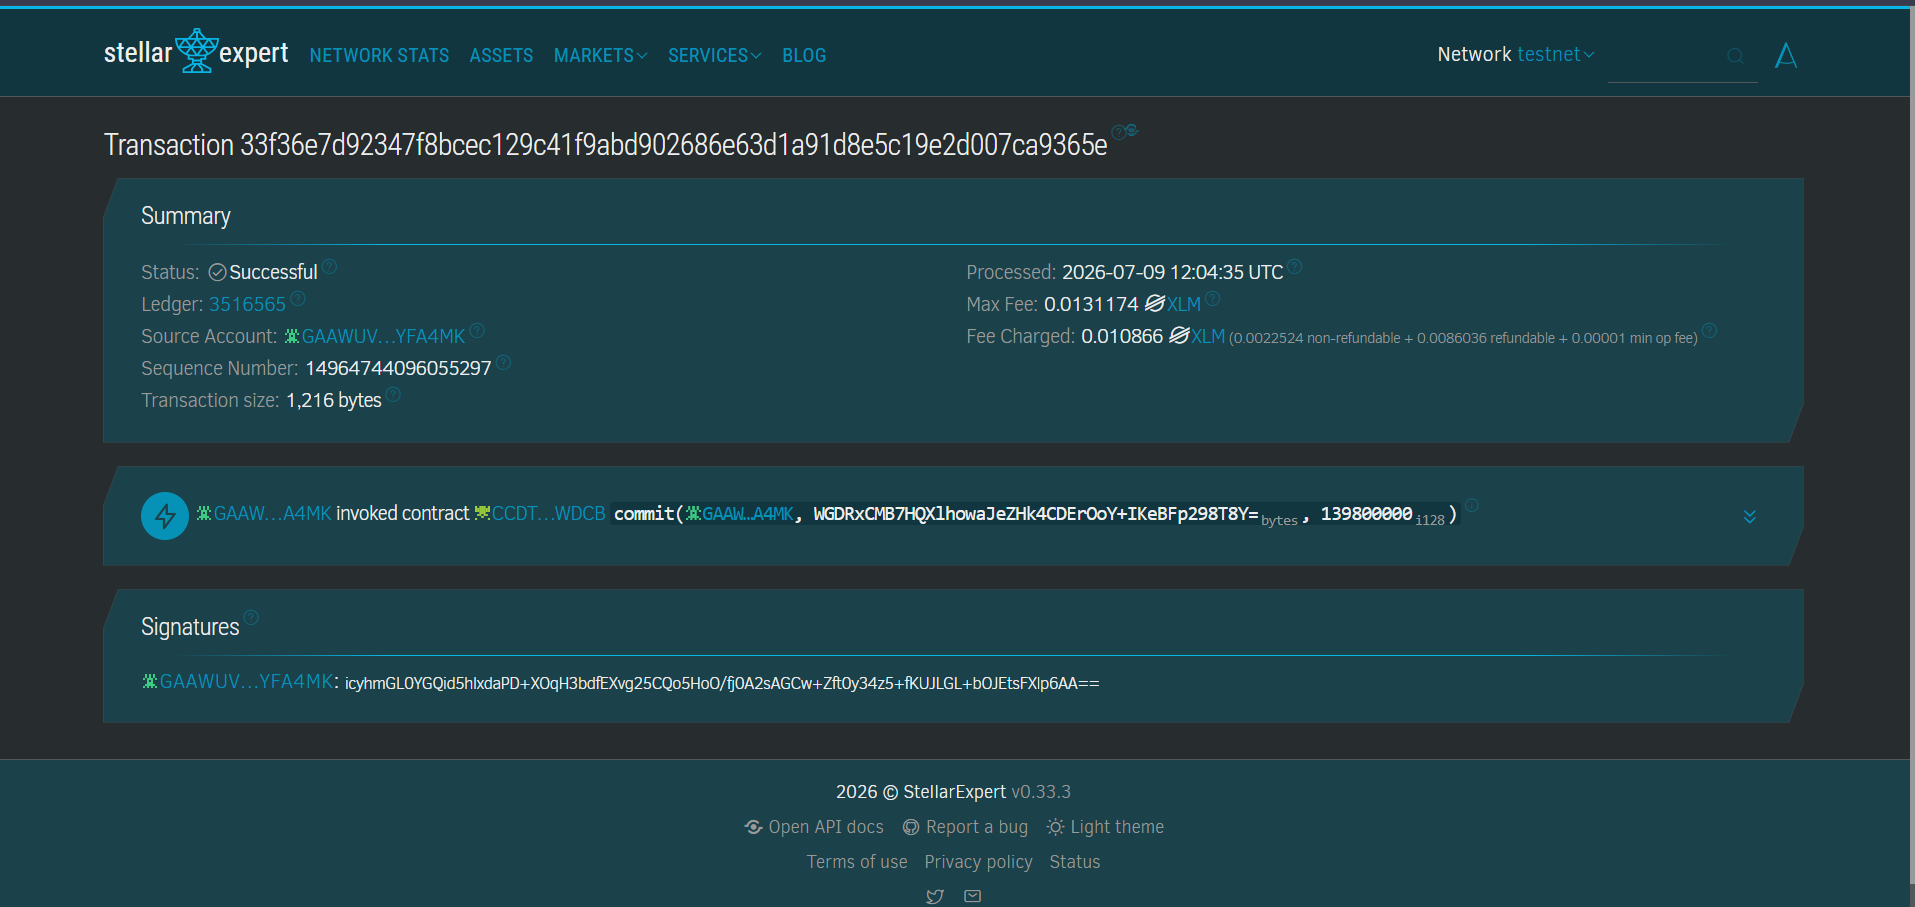
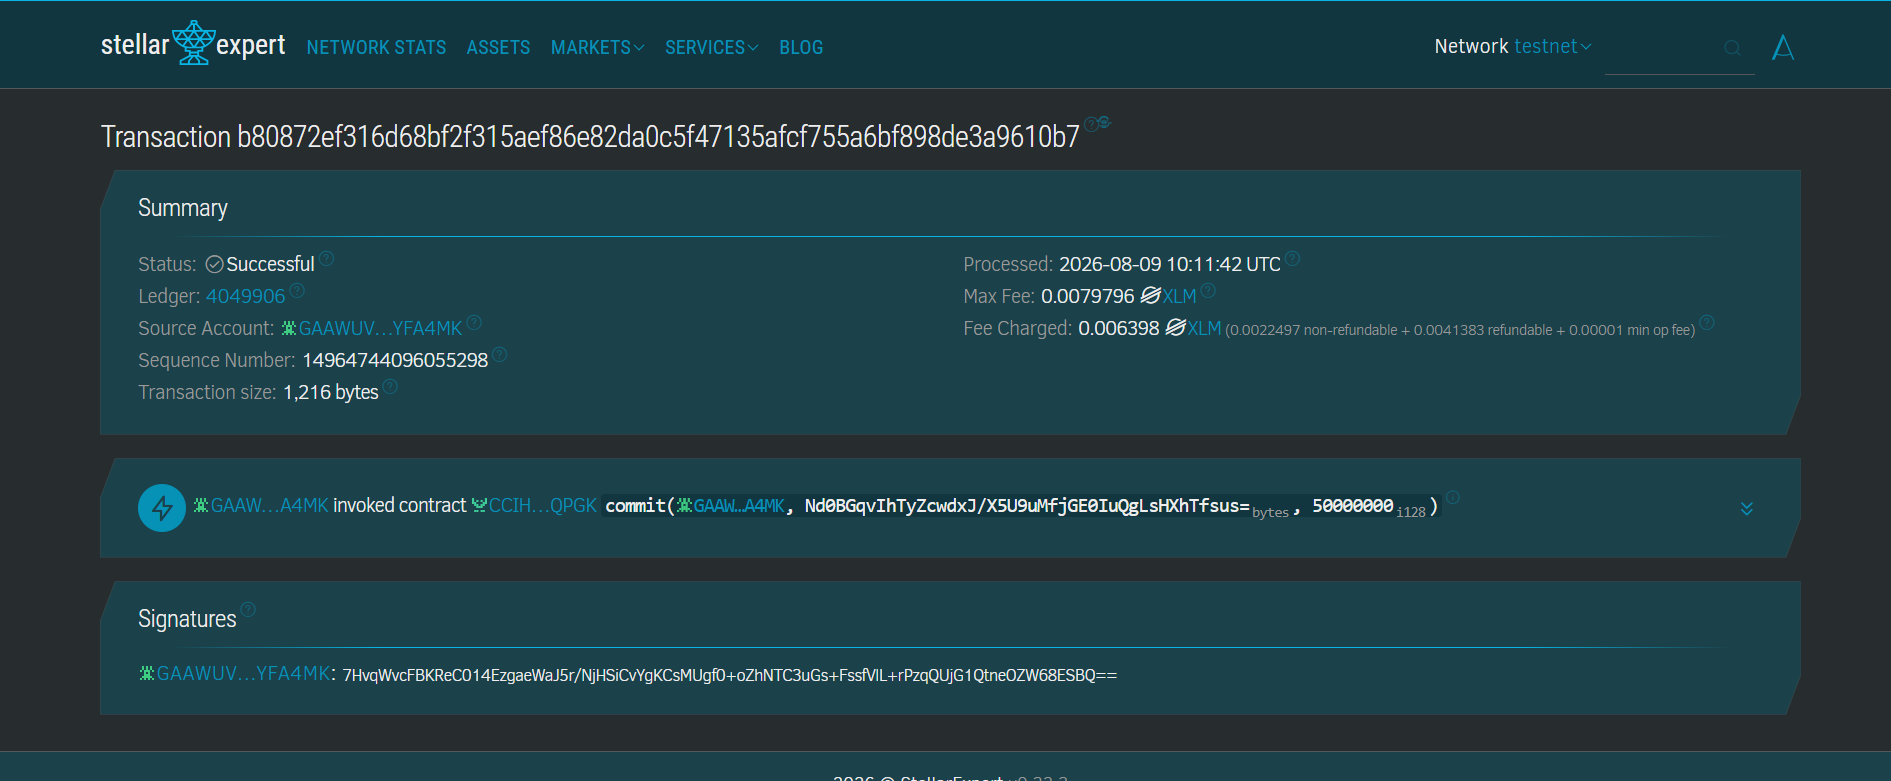
modified code

Changed region(s): [[0.0, 0.0, 1.0, 1.0], [0.4992, 0.2766, 0.9048, 0.4302], [0.8424, 0.0615, 0.936, 0.1229]]

diff --git a/src/components/BidForm.tsx b/src/components/BidForm.tsx
@@ -142,7 +142,7 @@ export function BidForm({ wallet, onBidSubmitted }: Props) {
       {status === 'success' && (
         <div className="status-box status-success" style={{ flexDirection: 'column', alignItems: 'stretch', gap: '12px' }}>
           <div style={{ display: 'flex', alignItems: 'center', gap: '8px', fontSize: '1rem', fontWeight: 600 }}>
-            ✅ transaction successfull
+            ✅ Transaction successful
           </div>
           <div style={{ fontSize: '0.82rem', color: 'var(--text-muted)', wordBreak: 'break-all' }}>
             Tx: <span style={{ fontFamily: 'monospace' }}>{txHash}</span>

diff --git a/dist/index.html b/dist/index.html
@@ -5,7 +5,7 @@
     <link rel="icon" type="image/svg+xml" href="/vite.svg" />
     <meta name="viewport" content="width=device-width, initial-scale=1.0" />
     <title>Sealed-Bid Auction — Stellar</title>
-    <script type="module" crossorigin src="/assets/index-17gJ-fVG.js"></script>
+    <script type="module" crossorigin src="/assets/index-l4KVaPpb.js"></script>
     <link rel="stylesheet" crossorigin href="/assets/index-C0ETXirz.css">
   </head>
   <body>

diff --git a/src/components/AuctionStatus.tsx b/src/components/AuctionStatus.tsx
@@ -8,8 +8,8 @@ import {
 import type { WalletState } from '../hooks/useWallet'
 
 // Deadlines from .env (Unix timestamps set during initialize)
-const BIDDING_DEADLINE = 1785938269
-const REVEAL_DEADLINE = 1785940069
+const BIDDING_DEADLINE = 1786275413
+const REVEAL_DEADLINE = 1786277213
 
 interface Props {
   wallet: WalletState

diff --git a/README.md b/README.md
@@ -43,8 +43,11 @@
 
 - [x] Advanced smart contract development — three-contract design: `AuctionContract` + `TimeLockVaultContract` + `RefundDistributorContract`; full phase state machine (Bidding → Reveal → Finalized)
 - [x] Inter-contract communication — `AuctionContract` calls `TimeLockVaultContract.release` and `RefundDistributorContract.batch_refund` post-finalize
+- [x] CI/CD pipeline - `.github/workflows/ci.yml` (runs `cargo test` for Soroban contracts)
 - [x] Event streaming and real-time updates — `useAuctionEvents` hook polls Soroban RPC for `reveal` events every 8 seconds; live feed component
 - [x] Mobile-responsive frontend — mobile-first CSS, responsive countdown timer, scrollable reveal feed — ![Mobile UI](docs/screenshots/mobile-ui.png)
+- [x] CI/CD pipeline running - ![CI pipeline](docs/screenshots/ci-pipeline.png)
+- [x] Test output with 3+ passing tests - ![Test output](docs/screenshots/tests.png)
 - [x] Error handling and loading states — `ContractError` class with typed error map; pending/success/error states on all forms
 - [x] Production-ready architecture — re-entrancy guard on `claim_refund`; commitment scheme matches contract exactly; salt stored in localStorage for reveal
 - [x] Live demo link — [https://bid-auction-snowy.vercel.app/](https://bid-auction-snowy.vercel.app/)
@@ -145,7 +148,7 @@ The Connect button uses `StellarWalletsKit` with `allowAllModules()` to support 
 
 ### Prerequisites
 
-- Rust with `wasm32-unknown-unknown` target (`rustup target add wasm32-unknown-unknown`)
+- Rust with `wasm32v1-none` target (`rustup target add wasm32v1-none`)
 - Stellar CLI 27+ (`stellar --version`)
 - Node.js 20+ and npm 10+
 
@@ -153,10 +156,10 @@ The Connect button uses `StellarWalletsKit` with `allowAllModules()` to support 
 
 ```bash
 cd contracts
-cargo build --target wasm32-unknown-unknown --release
+cargo build --target wasm32v1-none --release
 ```
 
-Wasm artifacts land in `contracts/target/wasm32-unknown-unknown/release/`.
+Wasm artifacts land in `contracts/target/wasm32v1-none/release/`.
 
 ### Deploy contracts (optional — already deployed on testnet)
 
@@ -165,9 +168,9 @@ Wasm artifacts land in `contracts/target/wasm32-unknown-unknown/release/`.
 stellar keys fund deployer --network testnet
 
 # Deploy
-stellar contract deploy --wasm contracts/target/wasm32-unknown-unknown/release/auction.wasm --source deployer --network testnet
-stellar contract deploy --wasm contracts/target/wasm32-unknown-unknown/release/vault.wasm   --source deployer --network testnet
-stellar contract deploy --wasm contracts/target/wasm32-unknown-unknown/release/refund.wasm  --source deployer --network testnet
+stellar contract deploy --wasm contracts/target/wasm32v1-none/release/auction.wasm --source deployer --network testnet
+stellar contract deploy --wasm contracts/target/wasm32v1-none/release/vault.wasm   --source deployer --network testnet
+stellar contract deploy --wasm contracts/target/wasm32v1-none/release/refund.wasm  --source deployer --network testnet
 ```
 
 ### Run the frontend locally
